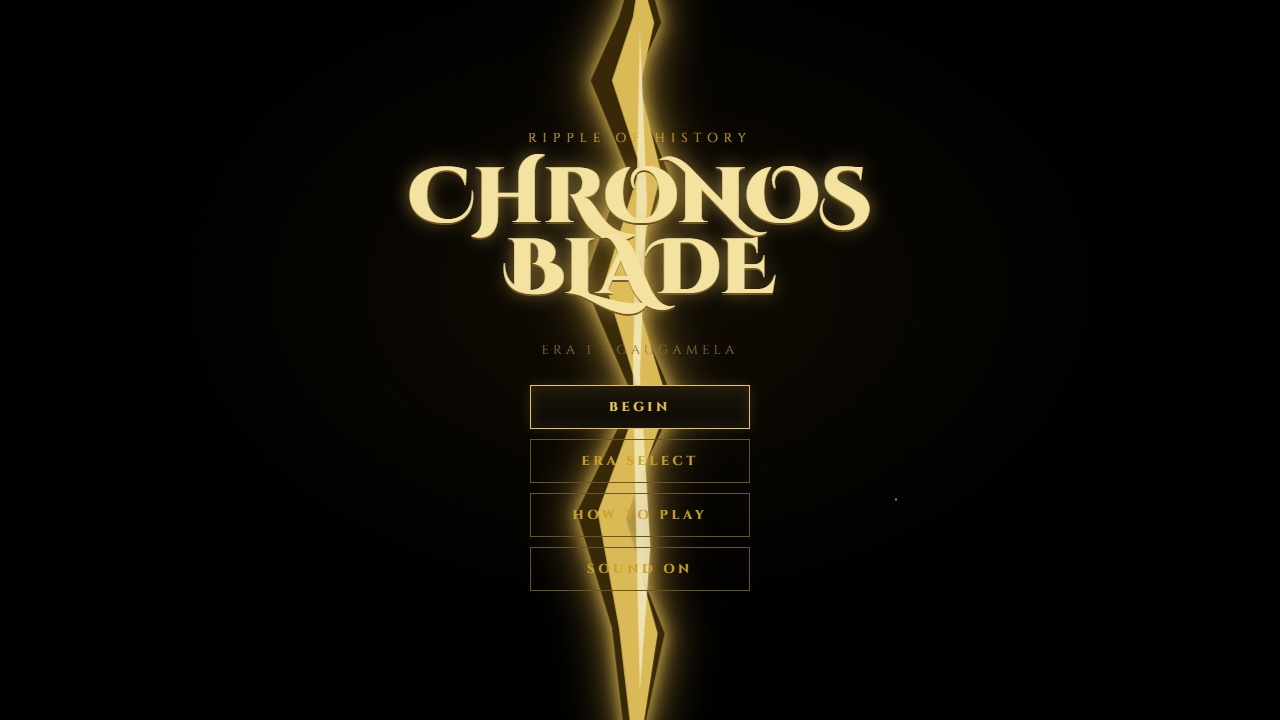
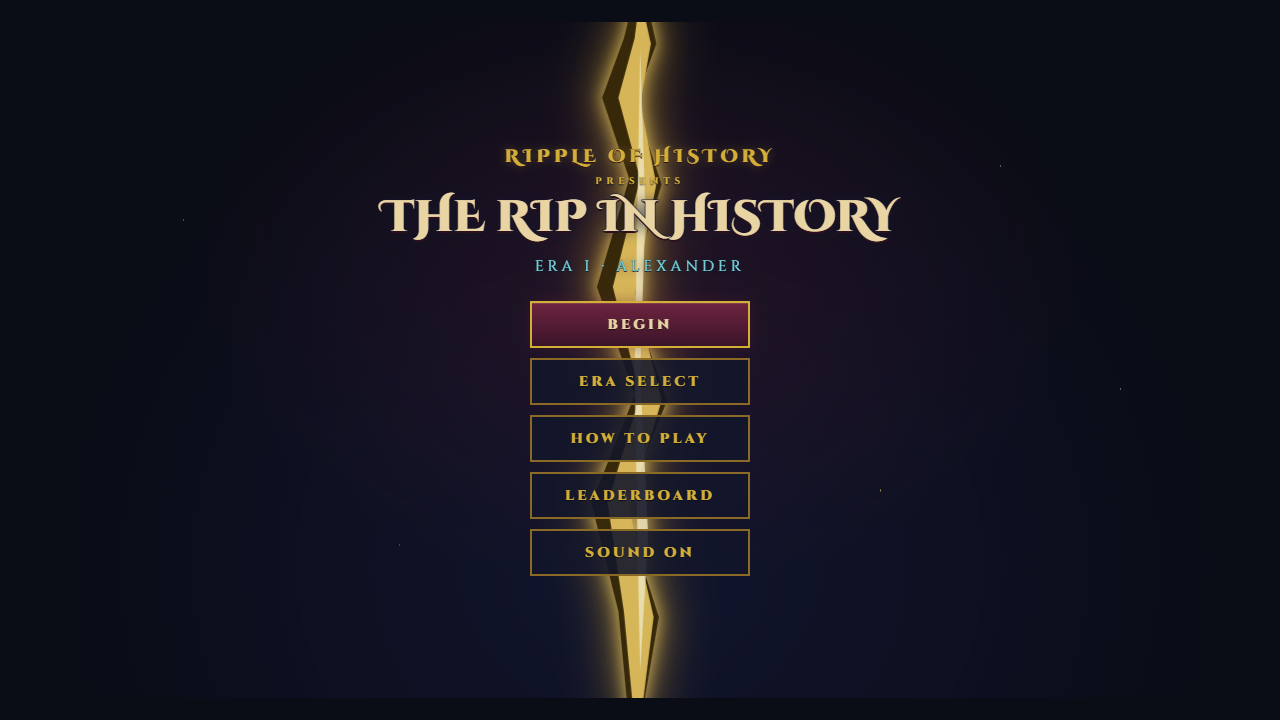
Rebuild the games page with the title lockup and game art.

diff --git a/games.html b/games.html
@@ -14,6 +14,7 @@
     <link rel="manifest" href="/site.webmanifest">
     <link rel="preconnect" href="https://fonts.googleapis.com">
     <link rel="preconnect" href="https://fonts.gstatic.com" crossorigin>
+    <link href="https://fonts.googleapis.com/css2?family=Cinzel:wght@700;900&family=Cinzel+Decorative:wght@700;900&display=swap" rel="stylesheet">
     <meta property="og:locale" content="en_GB">
     <meta property="og:type" content="website">
     <meta property="og:site_name" content="Ripple of History">
@@ -57,14 +58,19 @@
     <main id="content">
       <section class="page-hero games-hero">
         <div class="hero-media">
-          <img src="/images/still-compass.jpg" alt="An old brass compass on dark wood — The Rip in History.">
+          <img src="/images/game-art.png" alt="The Rip in History — Kael fighting through Era I, Alexander.">
         </div>
         <div class="hero-shade"></div>
-        <div class="particles" data-particles aria-hidden="true"></div>
-        <div class="hero-inner wrap coming-soon">
-          <p class="coming-soon-mark">A Ripple of History game</p>
-          <h1>The Rip <em>in History</em></h1>
-          <p class="lede">Six eras. One fighter. A gold rift through Alexander, Rome, knights, Napoleon, World War II, and today. Full screen — no channel chrome once you hit Play.</p>
+        <svg class="games-rift" viewBox="0 0 80 270" preserveAspectRatio="none" aria-hidden="true">
+          <polygon points="42,0 46,18 38,40 48,70 36,110 50,150 34,190 47,230 40,270 36,270 32,228 22,188 38,148 24,108 36,68 26,38 34,16 38,0" fill="#3a2a08" />
+          <polygon points="40,0 44,18 40,40 46,70 38,110 48,150 36,190 45,230 40,270 38,270 34,228 28,188 40,148 30,108 40,68 32,38 38,16 40,0" fill="#e6c35c" />
+          <polygon points="40,20 42,80 40,140 43,200 40,250 39,200 38,140 39,80" fill="#fff6c8" opacity="0.85" />
+        </svg>
+        <div class="hero-inner wrap games-lockup">
+          <img class="games-wordmark" src="/images/wordmark.png" alt="Ripple of History" width="280" height="156">
+          <p class="games-presents">presents</p>
+          <h1>The Rip <span>in History</span></h1>
+          <p class="lede">Six eras. One fighter. A gold rift through Alexander, Rome, knights, Napoleon, World War II, and today.</p>
           <div class="hero-actions">
             <a class="btn btn-gold" href="/play/">Play</a>
             <a class="btn btn-ghost" href="index.html" data-nav>Back to the films</a>

diff --git a/src/css/styles.css b/src/css/styles.css
@@ -2610,31 +2610,68 @@ body.is-entering {
   min-height: calc(100svh - var(--nav-h));
 }
 
+.games-hero .hero-media img {
+  object-position: center 80%;
+  image-rendering: pixelated;
+}
+
 .games-hero .hero-shade {
   background:
-    linear-gradient(180deg, rgba(5, 8, 15, 0.55) 0%, rgba(5, 8, 15, 0.62) 45%, rgba(5, 8, 15, 0.92) 100%);
+    linear-gradient(180deg, rgba(10, 12, 22, 0.96) 0%, rgba(10, 12, 22, 0.62) 22%, rgba(10, 12, 22, 0.5) 42%, rgba(10, 12, 22, 0.78) 72%, rgba(10, 12, 22, 0.96) 100%);
 }
 
-.coming-soon h1,
-.coming-soon .lede {
-  text-shadow: 0 8px 28px rgba(0, 0, 0, 0.55);
+.games-rift {
+  position: absolute;
+  left: 50%;
+  top: -4%;
+  height: 108%;
+  width: min(18%, 220px);
+  z-index: 0;
+  transform: translateX(-50%);
+  filter: drop-shadow(0 0 12px #d4af37) drop-shadow(0 0 32px #8a6a24);
+  opacity: 0.88;
+  pointer-events: none;
 }
 
-.coming-soon {
-  max-width: 40rem;
+.games-lockup {
+  position: relative;
+  z-index: 2;
+  max-width: 44rem;
   margin-inline: auto;
+  text-align: center;
 }
 
-.coming-soon-mark {
+.games-wordmark {
+  display: block;
+  width: min(240px, 70vw);
+  height: auto;
+  margin: 0 auto 0.35rem;
+  filter: drop-shadow(0 10px 24px rgba(0, 0, 0, 0.65));
+}
+
+.games-presents {
   color: var(--gold);
-  letter-spacing: 0.28em;
-  text-transform: uppercase;
+  letter-spacing: 0.42em;
+  text-transform: lowercase;
   font-size: 0.78rem;
-  margin-bottom: 0.8rem;
+  margin-bottom: 0.55rem;
 }
 
-.coming-soon h1 {
-  font-size: clamp(3.2rem, 8vw, 6rem);
+.games-hero .games-lockup h1 {
+  font-family: "Cinzel Decorative", Cinzel, var(--font-serif);
+  font-weight: 900;
+  font-size: clamp(1.45rem, 4.8vw, 3.4rem);
+  line-height: 1.05;
+  color: #e8d5a3;
+  text-transform: uppercase;
+  text-wrap: balance;
+  padding-inline: 0.6rem;
+  text-shadow: 0 2px 0 #2e101c, 0 0 18px rgba(10, 12, 22, 0.9);
+}
+
+.games-lockup .lede {
+  margin-top: 1rem;
+  text-shadow: 0 8px 28px rgba(0, 0, 0, 0.55);
 }
 
 .product-dialog {
@@ -2861,6 +2898,20 @@ body.is-entering {
 @media (max-width: 760px) {
   .product-grid {
     grid-template-columns: 1fr;
+  }
+
+  .games-hero .games-lockup h1 {
+    font-size: 1.35rem;
+  }
+
+  .games-hero .games-lockup h1 span {
+    display: block;
+  }
+
+  .games-lockup .lede {
+    font-size: 0.92rem;
+    margin-bottom: 1.2rem;
+    padding-inline: 0.5rem;
   }
 
   .shop-banner-bar {
